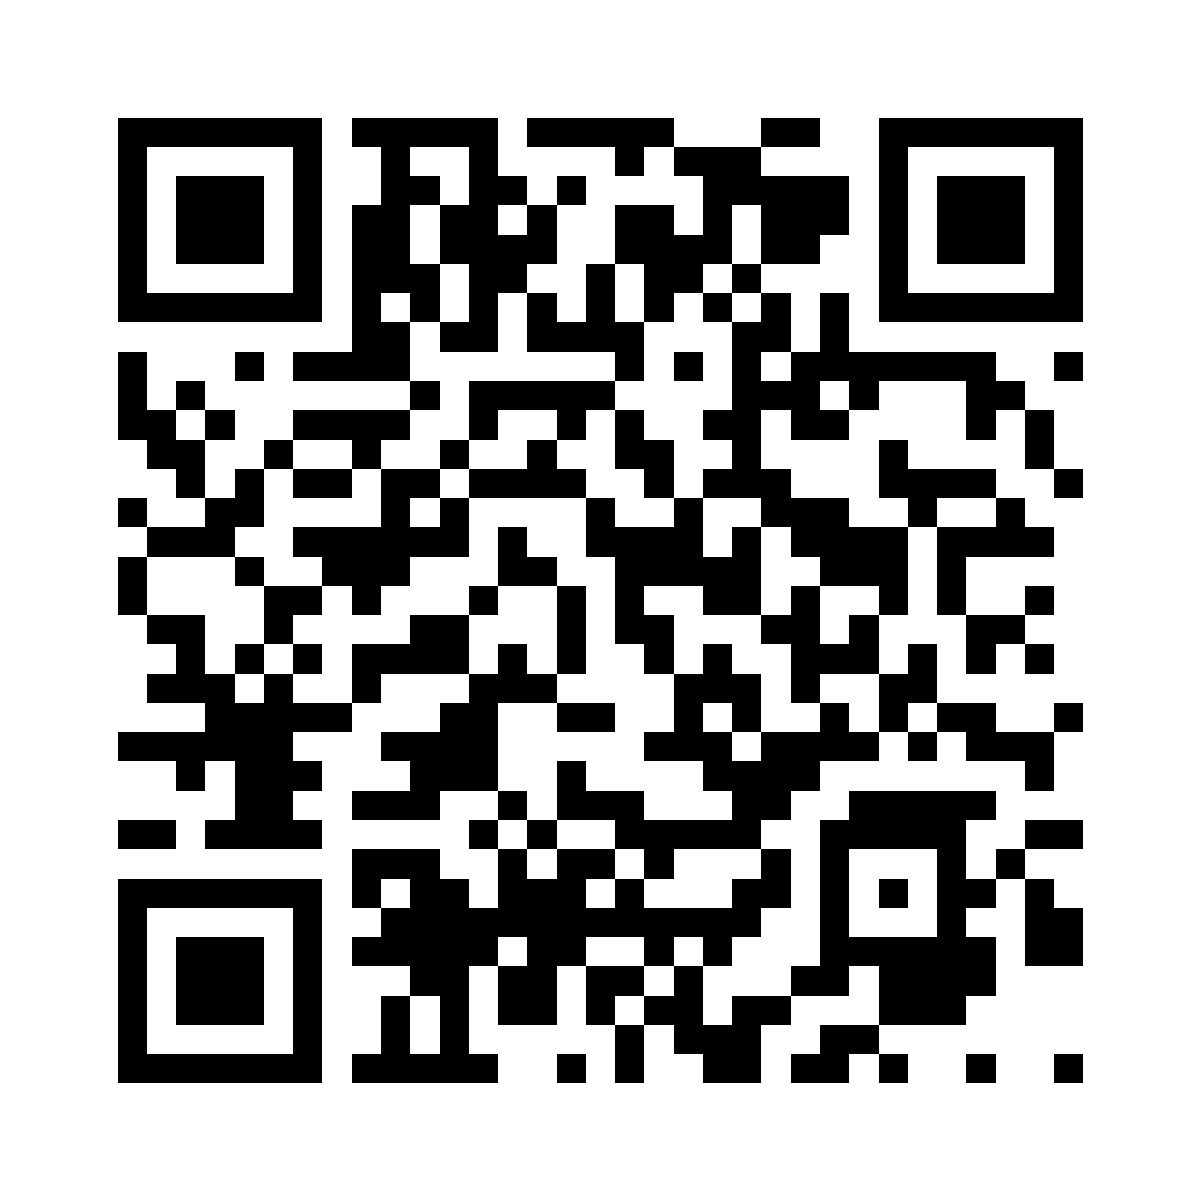
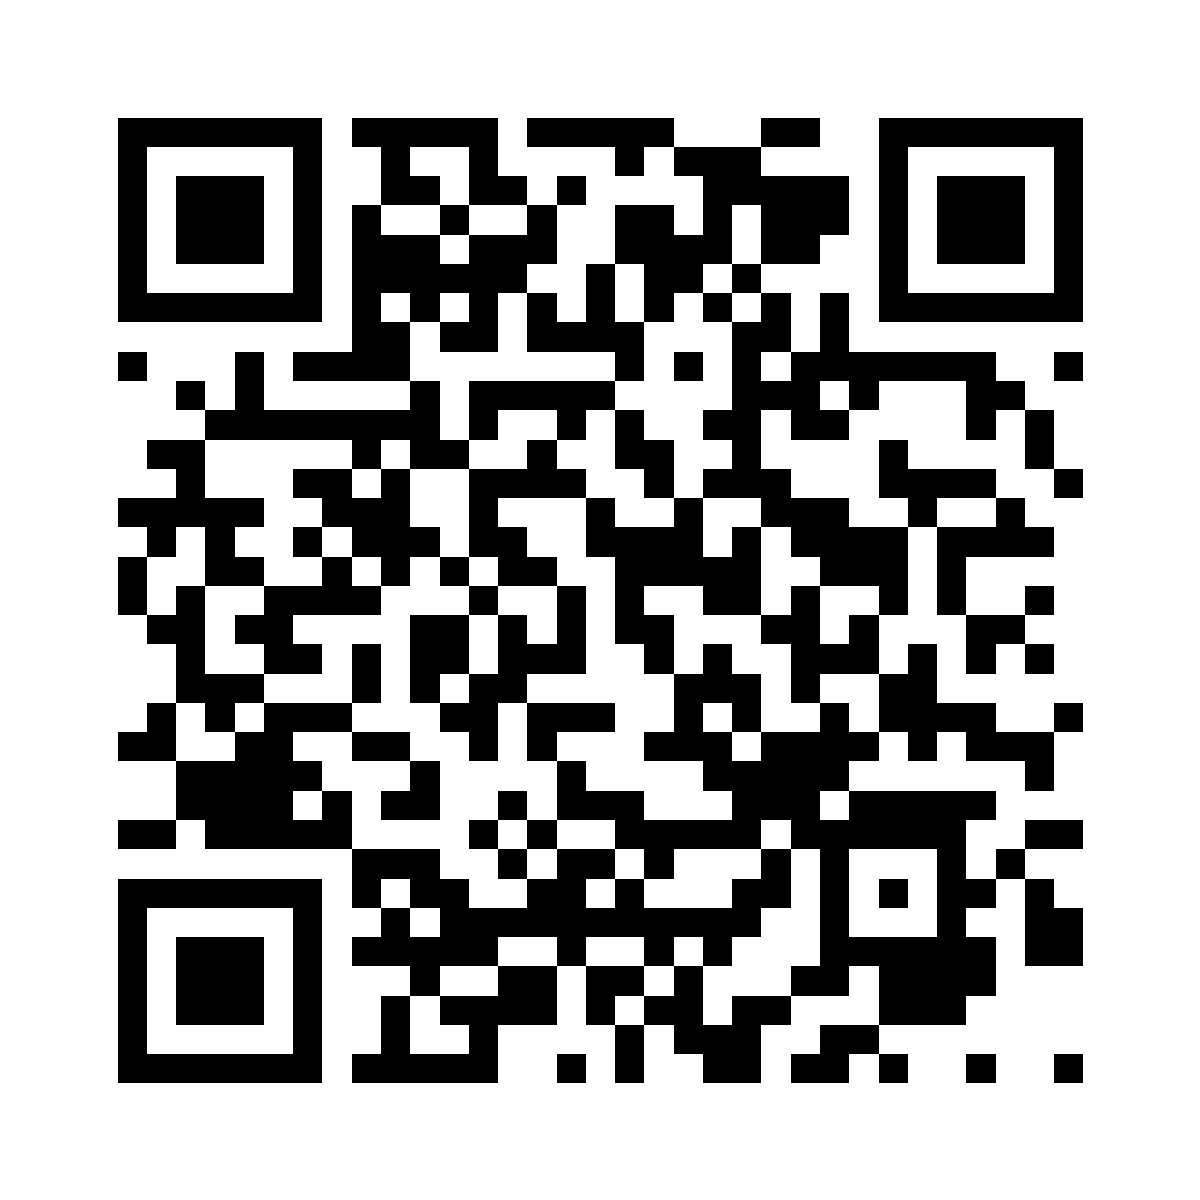
저장소 이름 변경 반영: lecture-server → lecture-survey (주소 · QR · 위젯)
Claude-Session: https://claude.ai/code/session_01N3yozzULQ3VSfLrESKa6dd

diff --git a/lv-widget.js b/lv-widget.js
@@ -13,7 +13,7 @@
   var CFG = Object.assign({
     url: "https://gxyckkinlygeasruapmj.supabase.co",
     key: "eyJhbGciOiJIUzI1NiIsInR5cCI6IkpXVCJ9.eyJpc3MiOiJzdXBhYmFzZSIsInJlZiI6Imd4eWNra2lubHlnZWFzcnVhcG1qIiwicm9sZSI6ImFub24iLCJpYXQiOjE3OTAxMzcwNzQsImV4cCI6MjEwNTcxMzA3NH0.8YYHtKltWy4cER_YLM5Wbn5lol1-ExvVo8iMt2QWRR0",
-    site: "https://ceaser501.github.io/lecture-server/"
+    site: "https://ceaser501.github.io/lecture-survey/"
   }, window.LV_CONFIG || {});
 
   /* ───────── QR 생성기 (qrcode-generator, MIT, Kazuhiko Arase) ───────── */

diff --git a/src/lv-widget.src.js b/src/lv-widget.src.js
@@ -11,7 +11,7 @@
   var CFG = Object.assign({
     url: 'https://gxyckkinlygeasruapmj.supabase.co',
     key: '@@ANON_KEY@@',
-    site: 'https://ceaser501.github.io/lecture-server/'
+    site: 'https://ceaser501.github.io/lecture-survey/'
   }, window.LV_CONFIG || {});
 
   /* ───────── QR 생성기 (qrcode-generator, MIT, Kazuhiko Arase) ───────── */

diff --git a/README.md b/README.md
@@ -5,10 +5,10 @@
 
 | 화면 | 주소 |
 |---|---|
-| 학생 (1주차) | https://ceaser501.github.io/lecture-server/?r=w1 |
-| 학생 (2주차) | https://ceaser501.github.io/lecture-server/?r=w2 |
-| 학생 (3주차) | https://ceaser501.github.io/lecture-server/?r=w3 |
-| 강사 관리 (PC · 폰) | https://ceaser501.github.io/lecture-server/admin.html |
+| 학생 (1주차) | https://ceaser501.github.io/lecture-survey/?r=w1 |
+| 학생 (2주차) | https://ceaser501.github.io/lecture-survey/?r=w2 |
+| 학생 (3주차) | https://ceaser501.github.io/lecture-survey/?r=w3 |
+| 강사 관리 (PC · 폰) | https://ceaser501.github.io/lecture-survey/admin.html |
 | 덱 위젯 예시 | `deck-example.html` (내려받아 `file://`로 열기) |
 
 QR 이미지: `qr/w1.png`, `qr/w2.png`, `qr/w3.png` (인쇄용 1200px, SVG도 있음). 방마다 1개, 질문과 상관없이 그대로 씁니다.

diff --git a/docs/리허설_체크리스트.md b/docs/리허설_체크리스트.md
@@ -2,7 +2,7 @@
 
 ## 처음 한 번 (11-03까지)
 
-- [ ] 관리 화면 로그인: https://ceaser501.github.io/lecture-server/admin.html
+- [ ] 관리 화면 로그인: https://ceaser501.github.io/lecture-survey/admin.html
 - [ ] w1·w2·w3 방에 질문 만들기. 덱에 이어 쓸 질문은 **장표 연결 키**(예: `agi`)를 붙이고, 장표의 `data-q`와 똑같이 맞추기
 - [ ] 덱(`file://`)을 Chrome으로 열고 위젯 오른쪽 아래 「로그인」 → 「● 강사」 확인
 - [ ] 폰 3대(아이폰 1, 안드로이드 2)로 QR 찍기 → 응답 → 덱에 2초 안에 뜨는지
